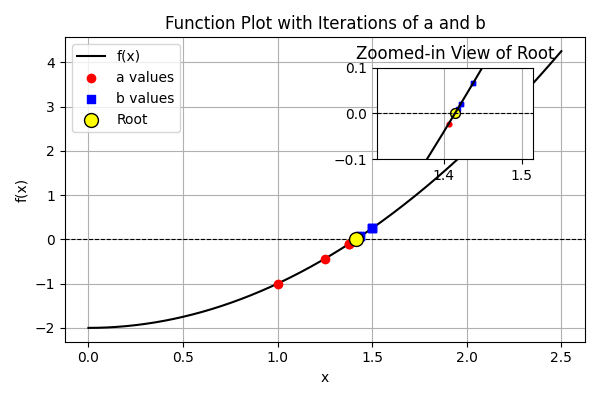
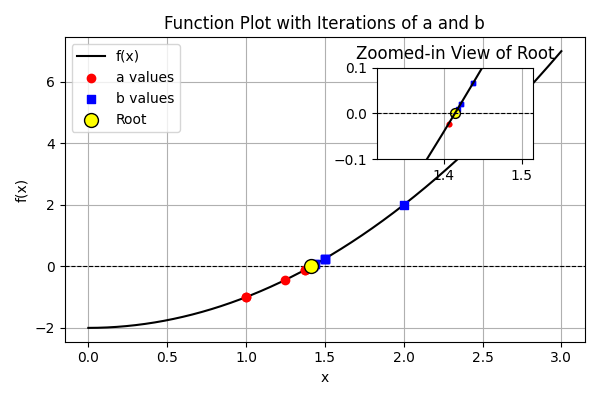
updates to tutorial ex problems 4 and 5

diff --git a/src/bisectionmethod/bisection_method.py b/src/bisectionmethod/bisection_method.py
@@ -110,6 +110,10 @@ def run_bisection_method(fcn: Callable, a: float, b: float, tol_input: float = 1
     b_list = []
     fcn_a_list = []
     fcn_b_list = []
+    a_list.append(a)
+    b_list.append(b)
+    fcn_a_list.append(fcn_a)
+    fcn_b_list.append(fcn_b)
     while root_found(a, b, fcn_a, fcn_b, tol_input, tol_output) is False:
         check_max_iter(num_iter, max_num_iter)
         num_iter += 1
@@ -151,9 +155,9 @@ def plot_bisection_results(result: dict, fig_name_with_path: Path):
     
     # Plot a and b values over iterations
     fig, axs = plt.subplots(1, 2, figsize=(9, 4))
-    axs[0].plot(range(1, num_iter + 1), a_values, marker="o", color="red", label="a values", linestyle="--")
-    axs[0].plot(range(1, num_iter + 1), b_values, marker="s", color="blue", label="b values", linestyle="--")
-    axs[0].plot(range(1, num_iter + 1), midpoints, marker=".", color="cyan", label="Midpoints", linestyle="-")
+    axs[0].plot(range(0, num_iter + 1), a_values, marker="o", color="red", label="a values", linestyle="--")
+    axs[0].plot(range(0, num_iter + 1), b_values, marker="s", color="blue", label="b values", linestyle="--")
+    axs[0].plot(range(0, num_iter + 1), midpoints, marker=".", color="cyan", label="Midpoints", linestyle="-")
     axs[0].scatter([num_iter], [final_root], color="yellow", label="Root: %0.6f" % (final_root), s=200, edgecolors="black")
     axs[0].set_xlabel("Iteration")
     axs[0].set_ylabel("Value")
@@ -162,7 +166,7 @@ def plot_bisection_results(result: dict, fig_name_with_path: Path):
     axs[0].grid(True)
     
     # Plot interval sizes over iterations
-    axs[1].plot(range(1, num_iter + 1), interval_sizes, marker="o", color="black", linestyle="-")
+    axs[1].plot(range(0, num_iter + 1), interval_sizes, marker="o", color="black", linestyle="-")
     axs[1].set_yscale("log")
     axs[1].set_xlabel("Iteration")
     axs[1].set_ylabel("Interval Size (log scale)")

diff --git a/tests/test_bisection_method.py b/tests/test_bisection_method.py
@@ -181,10 +181,10 @@ def test_run_bisection_method():
     # examples that do converge
     result = bim.run_bisection_method(fcn, 0.0, 10.0, 10 ** -10, 10 ** -20)
     assert np.isclose(result["solution"], np.sqrt(2))
-    assert len(result["all_a"]) == result["num_iter"]
-    assert len(result["all_fcn_a"]) == result["num_iter"]
-    assert len(result["all_b"]) == result["num_iter"]
-    assert len(result["all_fcn_b"]) == result["num_iter"]
+    assert len(result["all_a"]) == result["num_iter"] + 1
+    assert len(result["all_fcn_a"]) == result["num_iter"] + 1
+    assert len(result["all_b"]) == result["num_iter"] + 1
+    assert len(result["all_fcn_b"]) == result["num_iter"] + 1
     tol_input = 10 ** -10
     tol_output = 10 ** -30
     result = bim.run_bisection_method(fcn_2, 0.0, 20.0, tol_input, tol_output)
